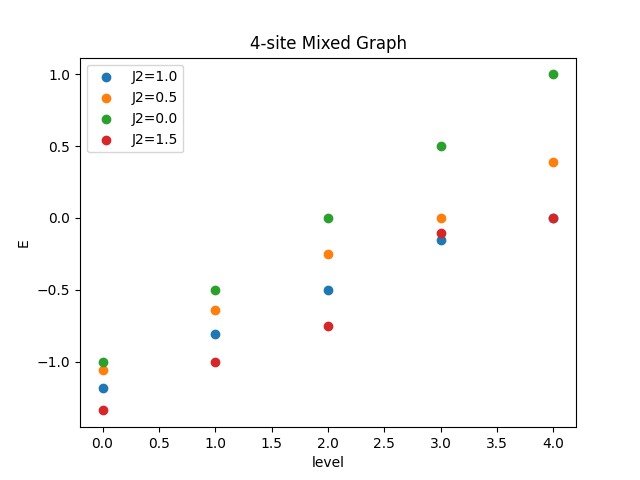
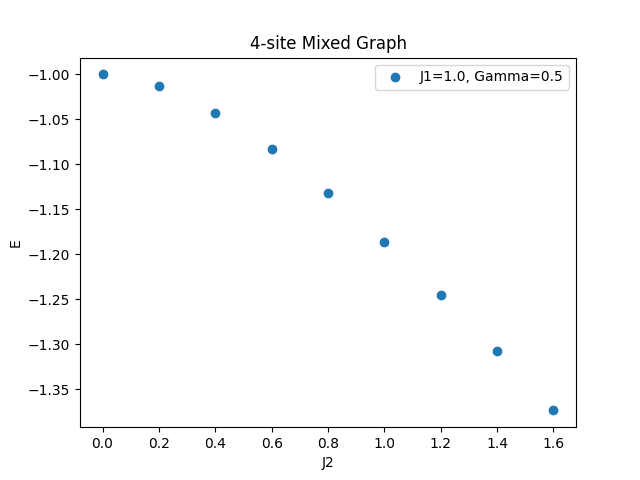
updated qbit energy tutorial

diff --git a/content/tutorials/jupyter/pages/qbits/qbitenergy.md b/content/tutorials/jupyter/pages/qbits/qbitenergy.md
@@ -29,6 +29,10 @@ We first use the 4-site mixed graph in the lattice configuration file: `lattices
   <EDGE type="1" source="2" target="4"/>
 </GRAPH> 
 ```
+
+The lattice configuration is illustrated in the following diagram:
+![mixed-4-site configuration](../../../../figs/qbits/mixed4sitesconfig.png)
+
 In this lattice configuration there are two types of vertices, labeled as "0" for sites 1 and 3 and "1" for sites 2 and 4. For each qbit site there is a transverse magnetic field with strength Gamma. There are also two types of bonds, labeled as "0" for bonds between sites (1,2), (2,3), (3,4), and (4,1), and "1" for bonds between sites (1,3) and (2,4). For bond type "0", we will assign an interaction J1 for bond type "0" and J2 for bond type "1". All these is done in the model configuration file: `models.xml`
 ```
 <HAMILTONIAN name="qbit operation">
@@ -80,7 +84,7 @@ We then set up parameters for the system and loop over the second coupling const
 ```python
 parms = []
 # Loop over second coupling constant
-for J2 in [0.0, 0.5, 1.0, 1.5]:
+for J2 in [0.0, 0.2, 0.4, 0.6, 0.8, 1.0, 1.2, 1.4, 1.6]:
     parms.append({
         'GRAPH'      : "4-site mixed",
         'MODEL'      : "qbit operation",
@@ -101,32 +105,29 @@ res = pyalps.runApplication('sparsediag', input_file)
 data = pyalps.loadEigenstateMeasurements(pyalps.getResultFiles(prefix=prefix))
 ```
 
-We then iterate through parameter J2 and plot 5 lowest energy levels for each J2.
+We then iterate through parameter J2 and plot the lowest energy level for each J2.
 
 
 ```python
+x = []
+E0 = []
 for Lsets in data:
     J2 = pyalps.flatten(Lsets)[0].props['J2']
-    # Make a list of energy values for each J2
-    x = []
-    allE = []
-    for q in pyalps.flatten(Lsets):
-        x += list(q.x)
-        allE += list(q.y)
-    allE = np.sort(allE)
-
-    # Set the scatter plot label
-    lbl="J2=" + str(J2)
-    plt.scatter(x,allE, label=lbl)
-
-    plt.legend()
+    x.append(J2)
+    lowestE = pyalps.flatten(Lsets)[0].y[0]
+    E0.append(lowestE)
     
-plt.xlabel("level")
+# Set the scatter plot label
+lbl="J1=1.0, Gamma=0.5"
+plt.scatter(x,E0, label=lbl)
+plt.legend()
+plt.xlabel("J2")
 plt.ylabel("E")
 plt.title("4-site Mixed Graph")
 plt.show()
+
 ```
 
-The resulting energy spectrums for the lowest 5 energies for various coupling constants J2 are shown in the following diagram:
+The resulting energy spectrums for the lowest energies for various coupling constants J2 are shown in the following diagram:
 ![Lowest energies vs. J2](../../../../figs/qbits/sites4mixed.png)
 
